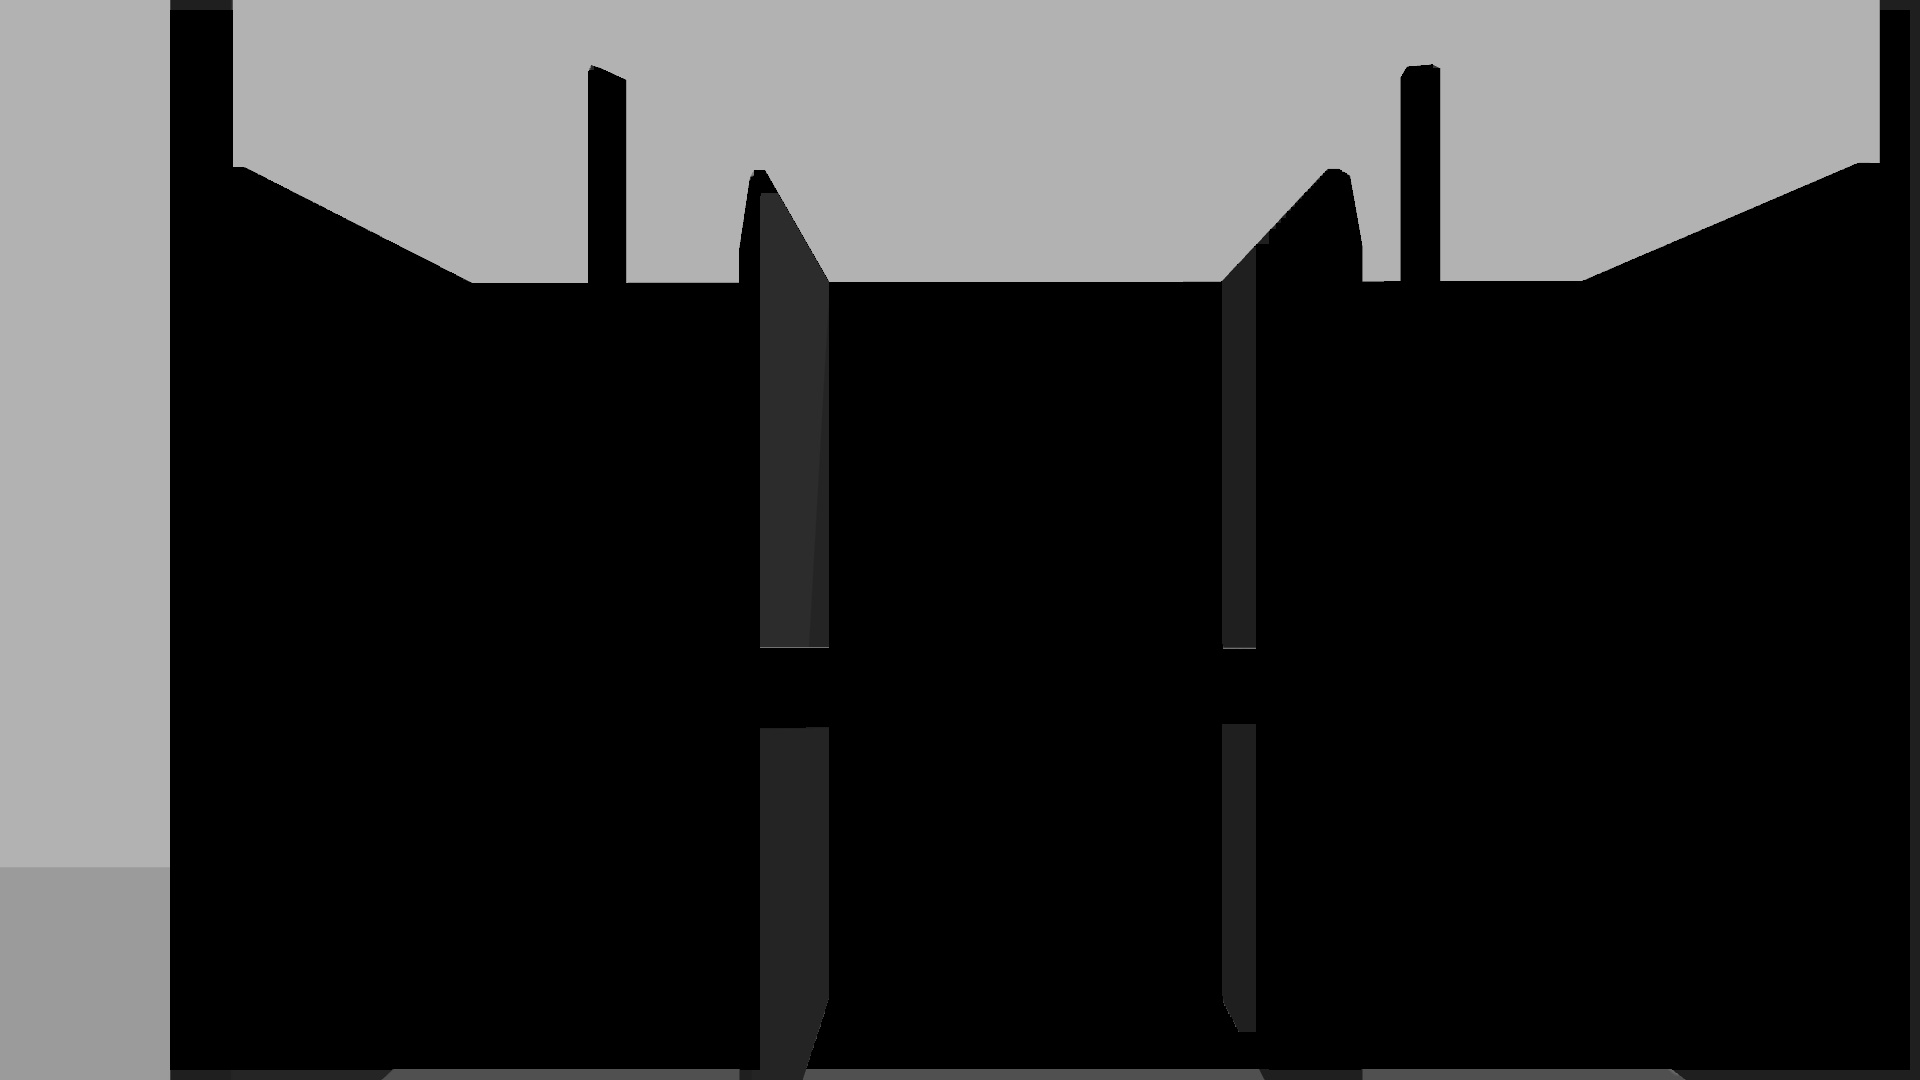
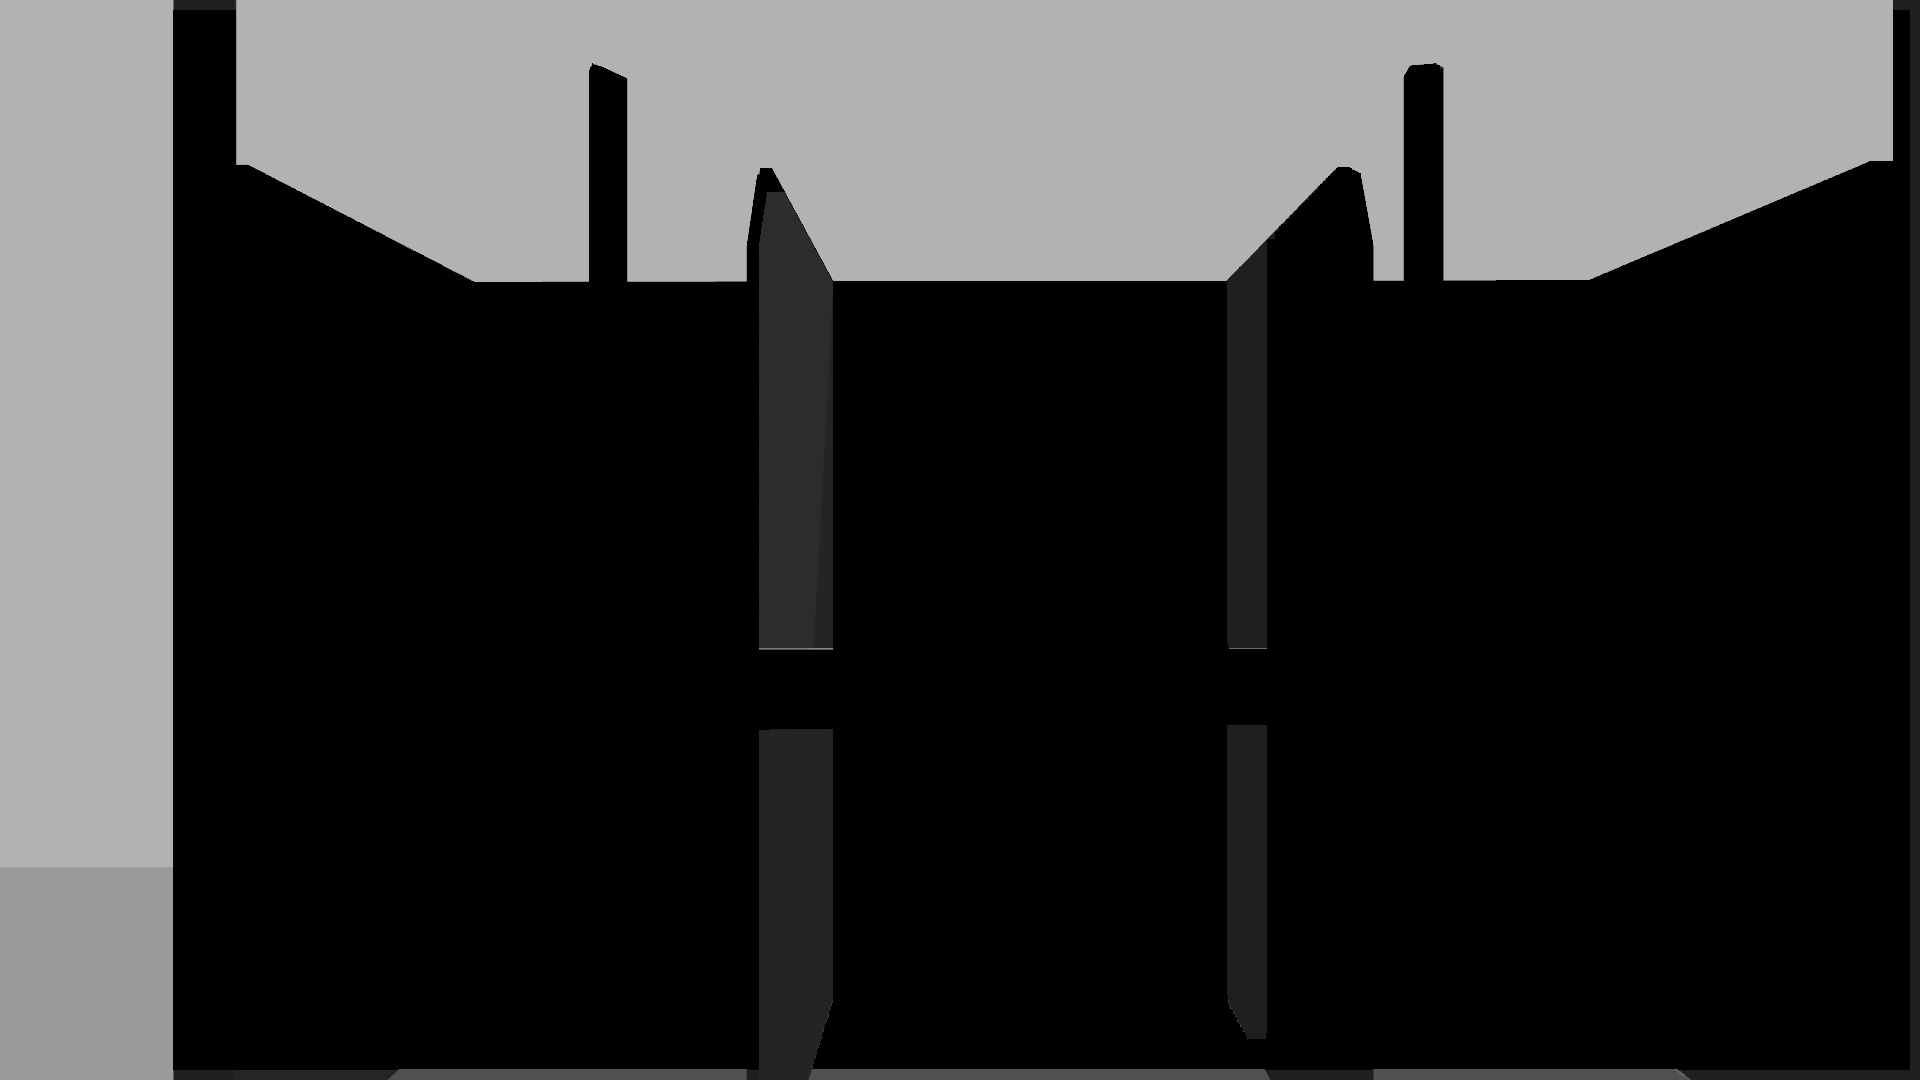
add noise filter

diff --git a/baxter_vision_example/scripts/mask_generate.py b/baxter_vision_example/scripts/mask_generate.py
@@ -11,13 +11,15 @@ from sensor_msgs.msg import Image
 from std_msgs.msg import Int16
 
 class mask_generate():
-    def __init__(self):
+    def __init__(self,threshold):
         self.bridge = cv_bridge.CvBridge()
         self.rospack = rospkg.RosPack()
         self.img_path = self.rospack.get_path('baxter_vision_example') + u"/data/fg.jpg" 
         self.bg_prv = cv2.imread(self.img_path)
         self.delta_x = 0
-        self.threshold = 80
+        self.count = 8
+        self.kernel_size = 3 
+        self.threshold = int(threshold)
         rospy.init_node('mask_generate',anonymous=True)
         rospy.Subscriber("split_fore_background/output/fg",Image,self.callback_bg)    
         rospy.Subscriber("mask_compare/output/delta_x",Int16,self.callback_x)
@@ -26,34 +28,56 @@ class mask_generate():
     def callback_bg(self,data):
         self.bg_cur = self.bridge.imgmsg_to_cv2(data,data.encoding)
         self.mask = self.compare_generate(self.bg_prv,self.bg_cur,self.delta_x)
+        self.mask_ = self.remove_noise(self.mask,self.count,self.kernel_size)
         self.mask_img_path = self.rospack.get_path('baxter_vision_example') + u"/data/mask.jpg" 
+        self.mask_img_path_ = self.rospack.get_path('baxter_vision_example') + u"/data/mask_removed_noise.jpg" 
         print self.delta_x
         cv2.imwrite(self.mask_img_path,self.mask)
+        cv2.imwrite(self.mask_img_path_,self.mask_)    
 
     def callback_x(self,msg):
         self.delta_x = msg.data
 
+    def remove_noise(self,mask,count,kernel_size):
+        if not count > 0:
+            return mask
+        else:
+            kernel = np.ones((kernel_size,kernel_size),np.uint8)
+            for i in range(0,count):
+                mask = cv2.dilate(mask,kernel,iterations=1)
+            for i in range(0,count):
+                mask = cv2.erode(mask,kernel,iterations=1)
+            return mask
+
     def compare_generate(self,img_prv,img_cur,delta_x):
         mask = np.copy(np.array(img_cur))
+        img_prv_moved = np.copy(np.array(img_prv))
         for y in range(0,len(img_cur)):
             for x in range(0,len(img_cur[0])):
                 if delta_x > 0:
-                    if x < len(img_cur[0]) - delta_x :
-                        if abs(int(sum(img_cur[y][x])) -int(sum(img_prv[y][x+delta_x]))) > self.threshold:
+                    # if x < len(img_cur[0]) - delta_x :
+                    if x > delta_x:
+                        if abs(int(sum(img_cur[y][x])) -int(sum(img_prv[y][x-delta_x]))) > self.threshold:
                             mask[y][x] = [0,0,0]
                         else :
                             mask[y][x] = [255,255,255]
+                        img_prv_moved[y][x] = img_prv[y][x-delta_x] 
                     else :
                         mask[y][x] = [255,255,255]
+                        img_prv_moved[y][x] = [255,255,255]
                 else:
-                    if x > -delta_x:
-                        if abs(int(sum(img_cur[y][x])) - int(sum(img_prv[y][x+delta_x]))) > self.threshold:
+                    # if x > -delta_x:
+                    if x < len(img_cur[0]) + delta_x:
+                        if abs(int(sum(img_cur[y][x])) - int(sum(img_prv[y][x-delta_x]))) > self.threshold:
                             mask[y][x] = [0,0,0]
                         else :
                             mask[y][x] = [255,255,255]
+                        img_prv_moved[y][x] = img_prv[y][x-delta_x] 
                     else:
                         mask[y][x] = [255,255,255]
+                        img_prv_moved[y][x] = [255,255,255]
+        cv2.imwrite(self.rospack.get_path('baxter_vision_example') + u"/data/img_prv_moved.jpg",img_prv_moved)
         return mask
 
 if __name__ =='__main__':
-    mask_generator = mask_generate()
+    mask_generator = mask_generate(sys.argv[1])

diff --git a/baxter_vision_example/scripts/save_mask_current.py b/baxter_vision_example/scripts/save_mask_current.py
@@ -1,0 +1,48 @@
+#!/usr/bin/env python
+# -*- coding: utf-8 -*-
+
+import cv_bridge
+import cv2
+import rospy
+import rospkg
+import sys
+from sensor_msgs.msg import Image
+
+def callback_bg_mask(data):
+    bridge = cv_bridge.CvBridge()
+    rospack = rospkg.RosPack()
+    path = rospack.get_path('baxter_vision_example') + u"/data/bg_mask_cur.jpg" 
+    img = bridge.imgmsg_to_cv2(data,data.encoding)
+    cv2.imwrite(path,img)
+
+def callback_bg(data):
+    bridge = cv_bridge.CvBridge()
+    rospack = rospkg.RosPack()
+    path = rospack.get_path('baxter_vision_example') + u"/data/bg_cur.jpg" 
+    img = bridge.imgmsg_to_cv2(data,data.encoding)
+    cv2.imwrite(path,img)
+
+def callback_fg_mask(data):
+    bridge = cv_bridge.CvBridge()
+    rospack = rospkg.RosPack()
+    path = rospack.get_path('baxter_vision_example') + u"/data/fg_mask_cur.jpg" 
+    img = bridge.imgmsg_to_cv2(data,data.encoding)
+    cv2.imwrite(path,img)
+
+def callback_fg(data):
+    bridge = cv_bridge.CvBridge()
+    rospack = rospkg.RosPack()
+    path = rospack.get_path('baxter_vision_example') + u"/data/fg_cur.jpg" 
+    img = bridge.imgmsg_to_cv2(data,data.encoding)
+    cv2.imwrite(path,img)
+
+def image_saver():
+    rospy.init_node('image_saver',anonymous=True)
+    rospy.Subscriber("split_fore_background/output/bg_mask",Image,callback_bg_mask)
+    rospy.Subscriber("split_fore_background/output/bg",Image,callback_bg)
+    rospy.Subscriber("split_fore_background/output/fg_mask",Image,callback_fg_mask)
+    rospy.Subscriber("split_fore_background/output/fg",Image,callback_fg)
+    rospy.spin()
+
+if __name__ == '__main__':
+    image_saver()

diff --git a/baxter_vision_example/scripts/mask_compare.py b/baxter_vision_example/scripts/mask_compare.py
@@ -12,14 +12,14 @@ from std_msgs.msg import Int16
 
 class mask_compare():
 
-    def __init__(self):
+    def __init__(self,threshold_x,threshold_y):
         self.bridge = cv_bridge.CvBridge()
         self.rospack = rospkg.RosPack()
         self.img_path = self.rospack.get_path('baxter_vision_example') + u"/data/bg_mask.jpg"
         self.bg_mask_prv = cv2.imread(self.img_path)
         [self.bg_mask_prv_x, self.bg_mask_prv_y] = self.calcGraph(self.bg_mask_prv)
-        self.threshold_x = 100
-        self.threshold_y = 100
+        self.threshold_x = int(threshold_x)
+        self.threshold_y = int(threshold_y)
         self.min_x_delta = 0
         self.min_y_delta = 0
         rospy.init_node('mask_compare',anonymous=True)
@@ -71,8 +71,6 @@ class mask_compare():
                 min_x = sub_x_value
                 self.min_x_delta = delta_x 
         self.publish()
-        print self.min_x_delta
-        print self.min_y_delta
 
     def calcGraph(self,data):
         graph_x = []
@@ -91,4 +89,4 @@ class mask_compare():
         self.pub_delta_y.publish(self.min_y_delta)
 
 if __name__ == '__main__':
-    comparer = mask_compare()
+    comparer = mask_compare(sys.argv[1],sys.argv[2])
